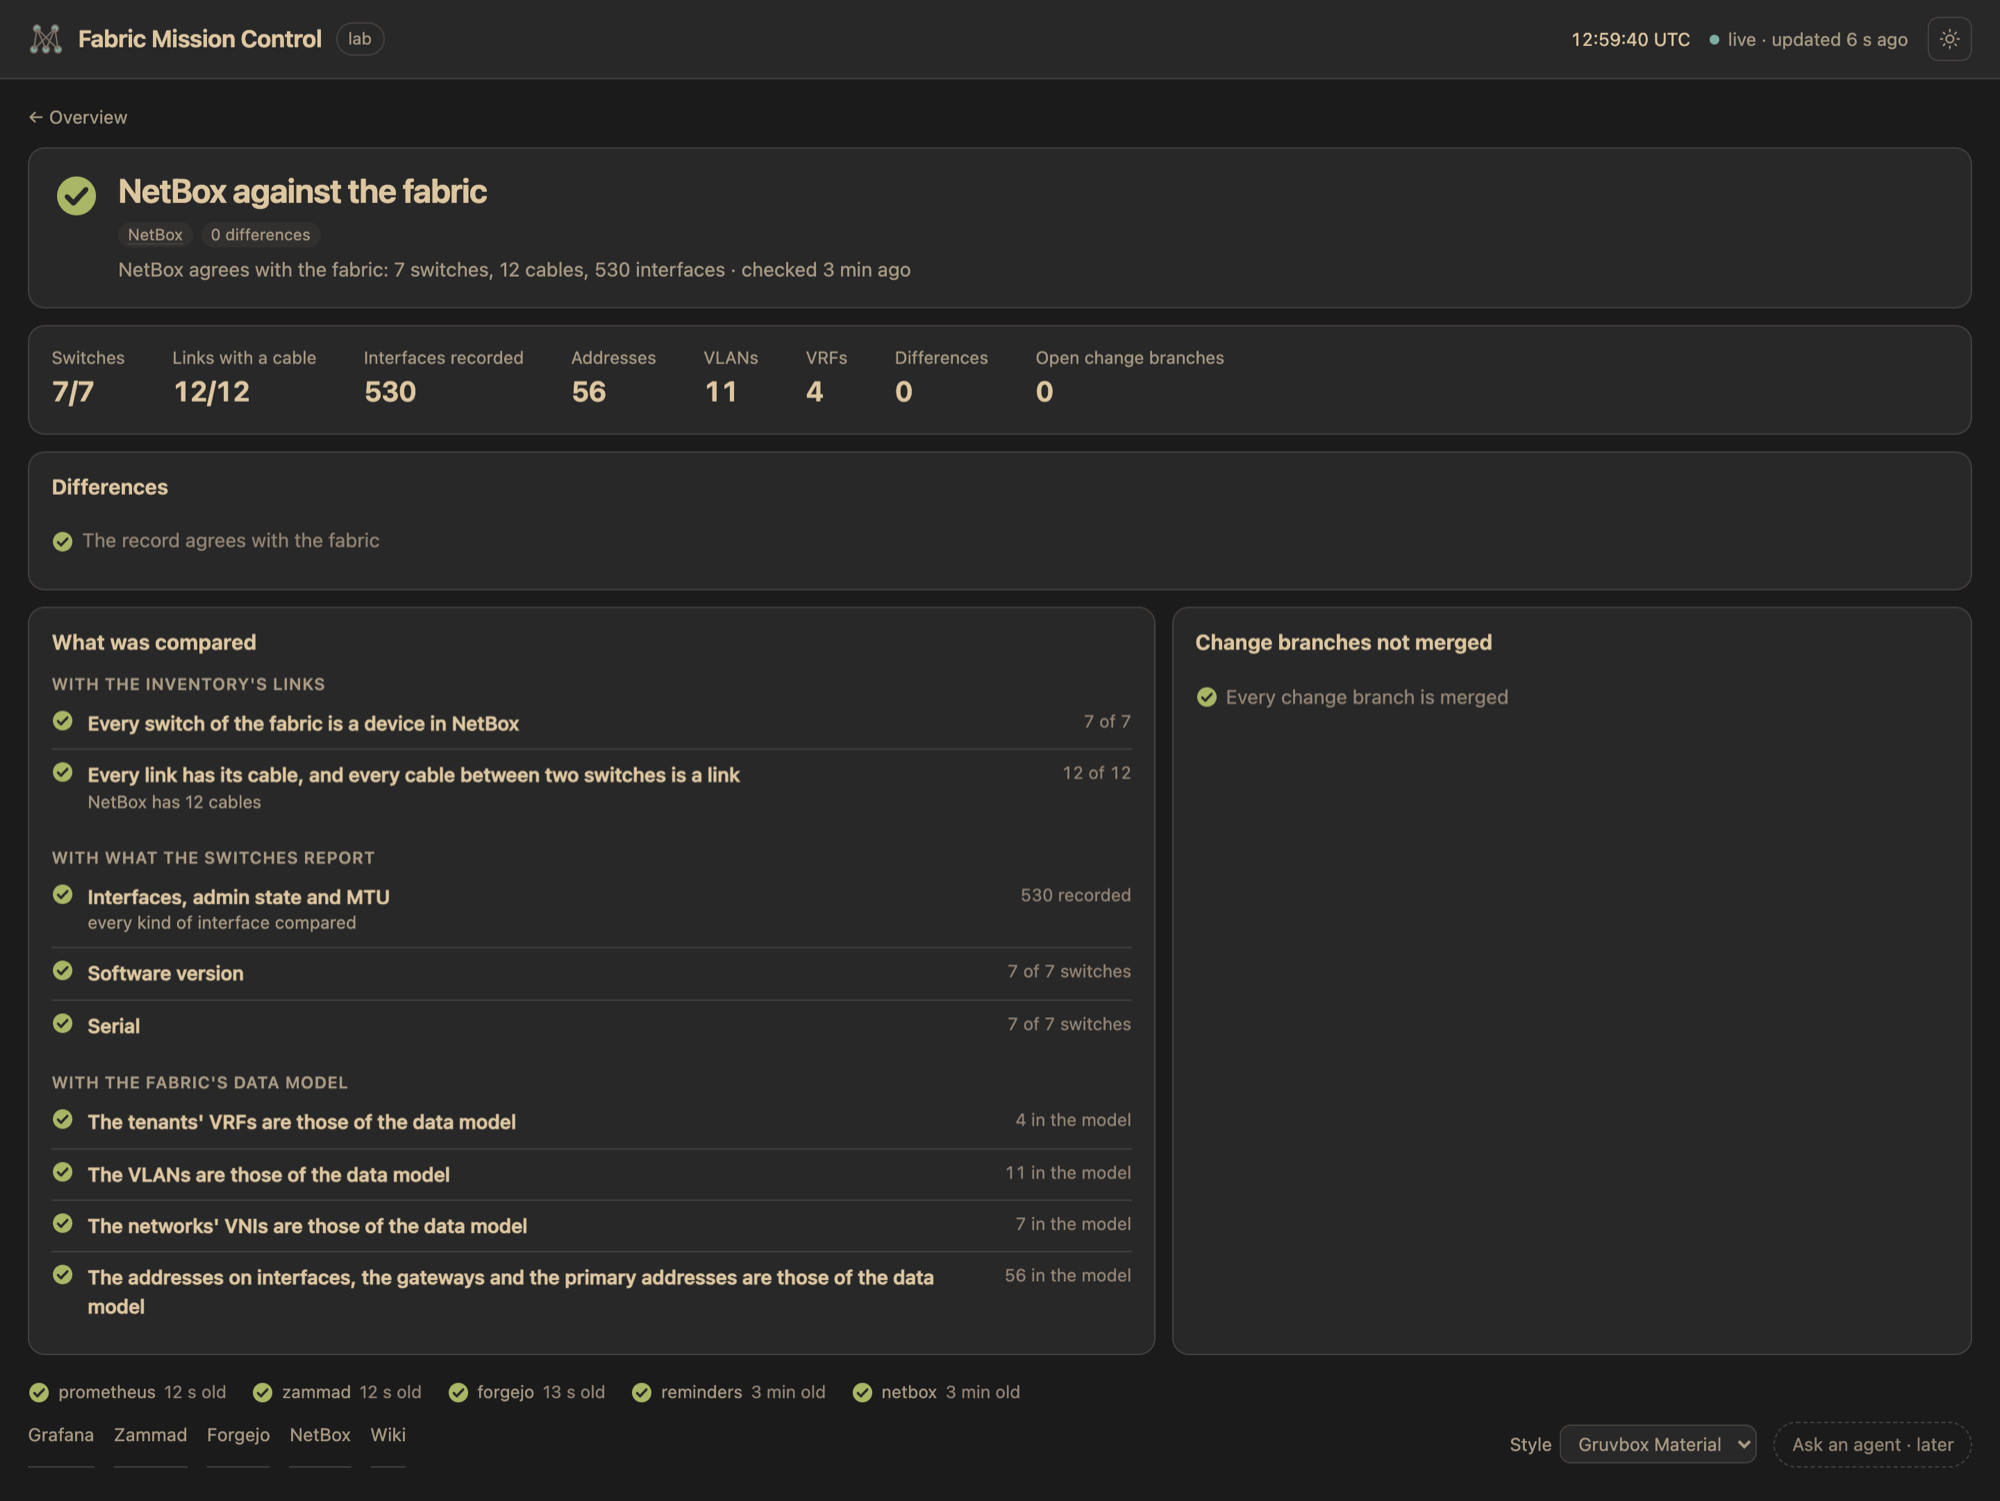
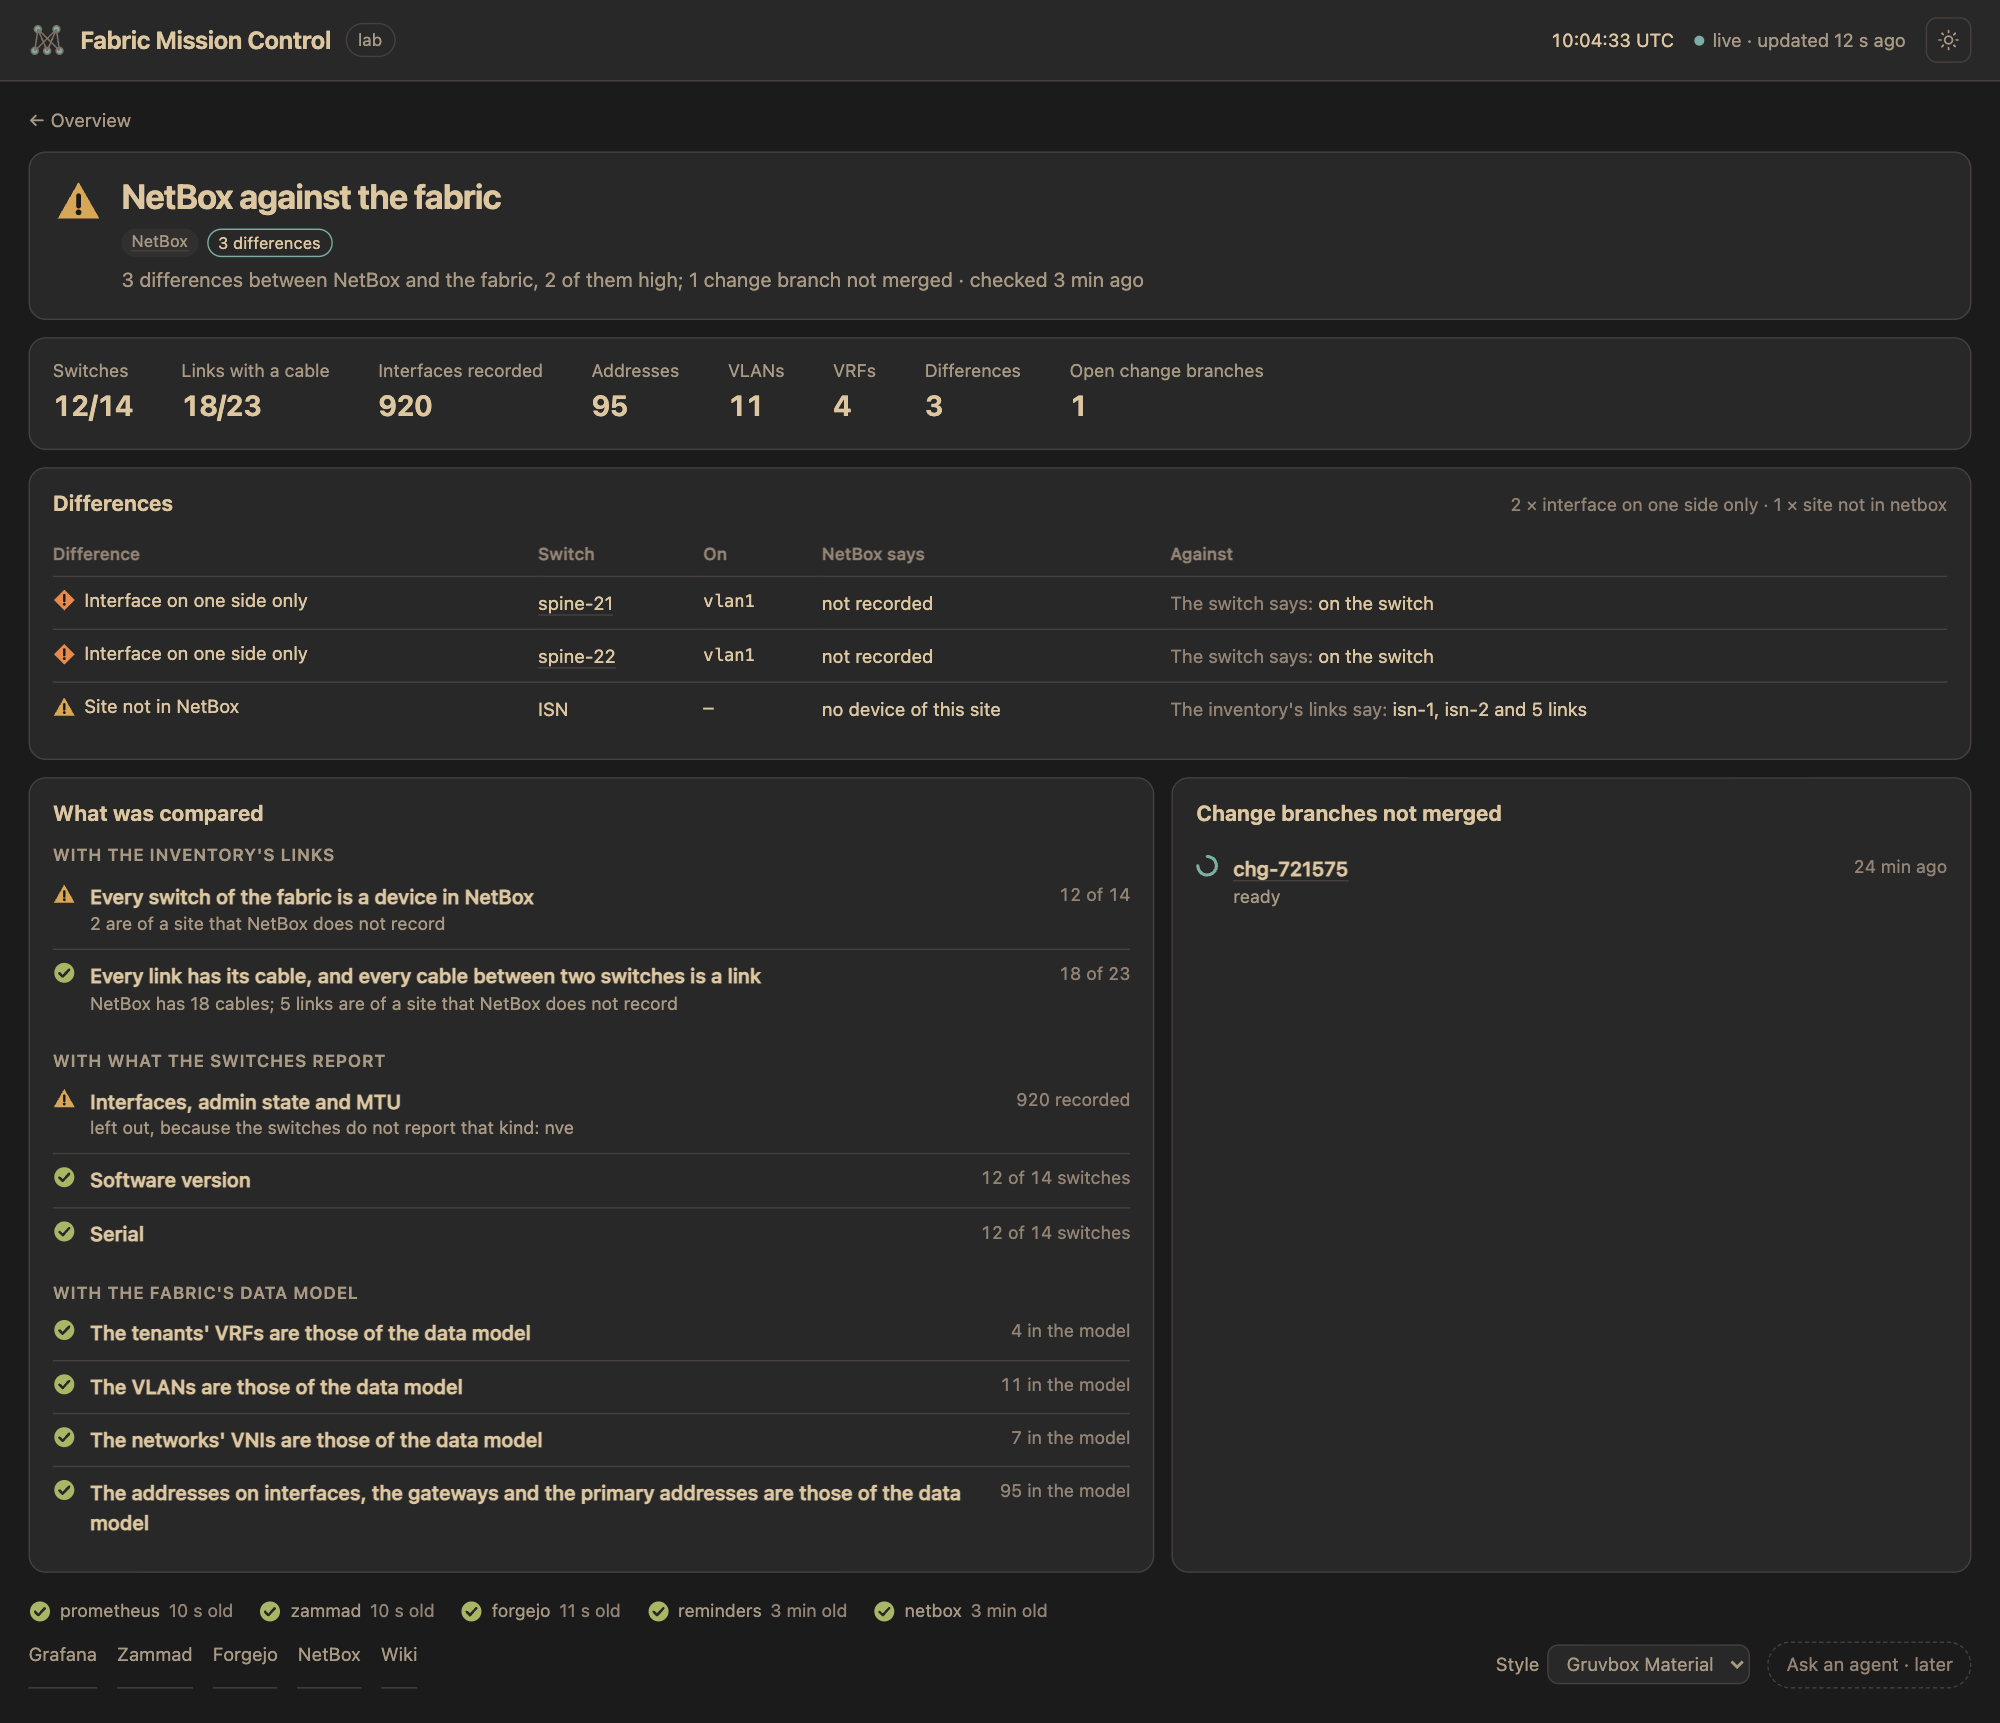
docs: retake the Mission Control screenshots with both sites
The overview, the full page, the page of a switch and the NetBox
comparison showed the single site of seven switches. They are taken
again from the live page of 25 November 2026: fourteen switches in
DC-1, DC-2 and the inter-site network.

As before, the panels with serial numbers and management addresses
are left out of the pictures. The NetBox picture shows the record as
it was: three differences and one change branch not merged, and the
page's text describes them.

The notes that dated the old pictures are removed.

diff --git a/docs/mission-control.md b/docs/mission-control.md
@@ -7,10 +7,8 @@ that already hold the answers and changes nothing: no button on it does anything
 
 ![Mission Control, the whole page](../assets/mission-control-overview-full.png)
 
-> **About the pictures.** The screenshots on this page are from 19 November 2026, when the fabric
-> was one site of seven switches. The page has since been adapted to the fabric of two sites: the
-> Fabric panel and the NetBox comparison look different now, as described under
-> [The topology](#the-topology) below. The other panels are as shown.
+*The live page on 25 November 2026. The pictures of the switch and of NetBox below are from the
+same minute; the panels with serial numbers and management addresses are left out of them.*
 
 ## What is on it
 
@@ -23,7 +21,7 @@ that already hold the answers and changes nothing: no button on it does anything
 | **Changes** | Each open change: its step of nine, who it waits for, and in words what is awaited | The ticket system and the forge |
 | **Fabric pipeline** | What runs now with its usual and its longest duration, the last deploy, the last scheduled test, the last 24 jobs | The forge |
 | **Tickets** | Open and pending, in progress, the last closed | The ticket system |
-| **Drift and records** | Is `main` deployed, does the fabric match its baseline, does NetBox agree with the fabric, when was the last rollback drill | The forge, NetBox |
+| **Drift and records** | Is `main` deployed, does the fabric match its baseline, does NetBox agree with the fabric, does every switch serve a telemetry certificate with time left, when was the last rollback drill | The forge, NetBox |
 | **Coming up** | The next operations tasks: rotations, updates, drills | The reminder calendar in Git |
 | **The monitoring itself** | Is the collector up, how many telemetry streams and SNMP polls work | Prometheus |
 | **Latest activity** | Alarms, pipeline jobs, changes and closed tickets in one timeline | All of the above |
@@ -102,8 +100,8 @@ steps, every note, and who did each.
 State and uptime, CPU and memory over 24 hours, every alarm of the last seven days on a time
 line, every enabled interface with speed, traffic, utilisation and errors, the BGP neighbours,
 OSPF adjacencies and VTEP peers one by one, the links to other switches, and the newest tickets
-that name the switch. The picture is leaf-101 before the fourth leaf joined; it has since gained
-leaf-104 as a VTEP peer.
+that name the switch. The picture is leaf-101, one half of the vPC pair: its site and AS under
+its name, and the four VTEPs of its site that it should see.
 
 ### NetBox against the fabric
 
@@ -121,9 +119,13 @@ compares it three ways:
 It also lists NetBox branches of changes that were deployed but never merged.
 
 The comparison covers every site of the fabric. A site of which NetBox records nothing at all is
-one difference for the whole site, not one per switch, link and address. On 25 November 2026
-there was one such difference: the inter-site network, whose two routers and five links were not
-recorded in NetBox yet. The picture above shows the first site alone, in agreement.
+one difference for the whole site, not one per switch, link and address.
+
+The picture shows the page finding something, on 25 November 2026. The inter-site network is not
+recorded in NetBox yet: one difference, for its two routers and five links. Each spine of DC-2
+reports an interface that NetBox lacks. And the NetBox branch of a change in flight is ready and
+not merged, as it should be before its deploy. Twelve of fourteen switches and eighteen of
+twenty-three links are recorded.
 
 ## How it is built
 

diff --git a/README.md b/README.md
@@ -10,9 +10,8 @@ and the network between them, and everything around them is built as it would be
 
 ![Mission Control, the fabric's status page](assets/mission-control-overview.png)
 
-*Mission Control: live state of the fabric, its alerts, changes in flight and pipeline. The picture
-is from 19 November 2026, when the fabric was one site of seven switches; the page now draws both
-sites.*
+*Mission Control on 25 November 2026: both sites and the inter-site network, each switch's state,
+and what waits for the owner.*
 
 > **About this repository.** This is the public overview: architecture, setup and workflows. The
 > source, the data model and the manifests live in a private Forgejo repository. Host names,
